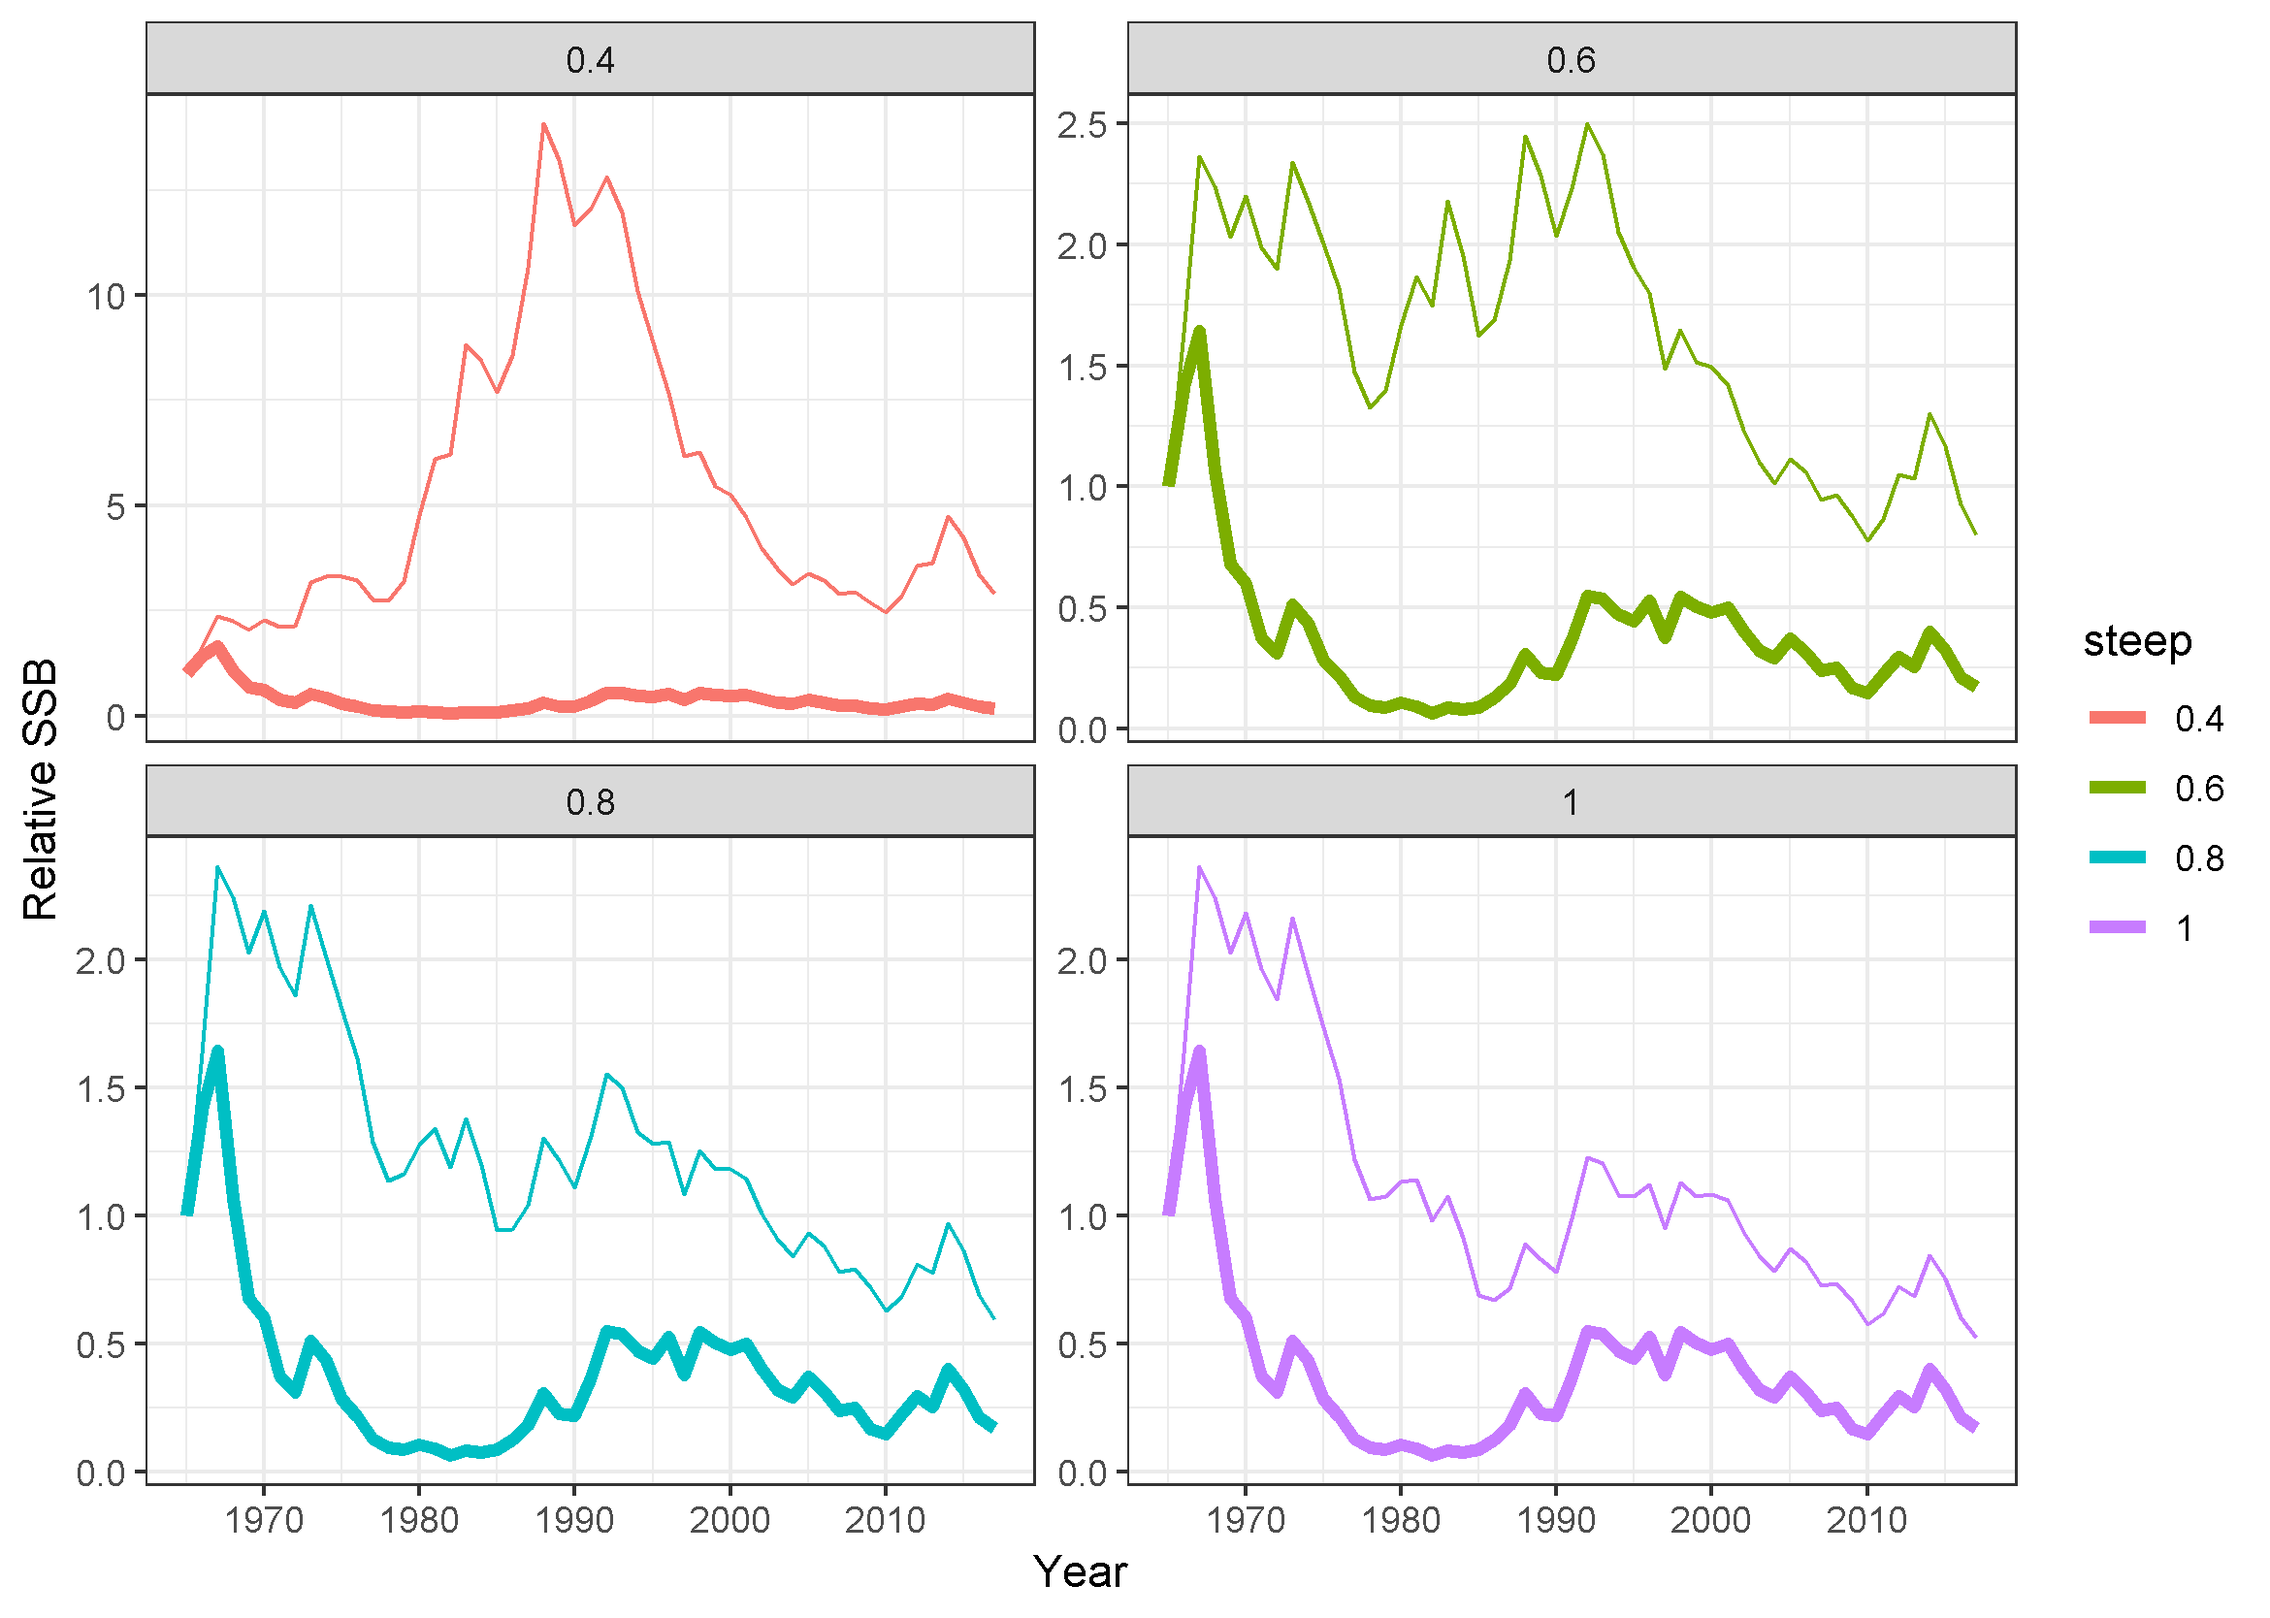
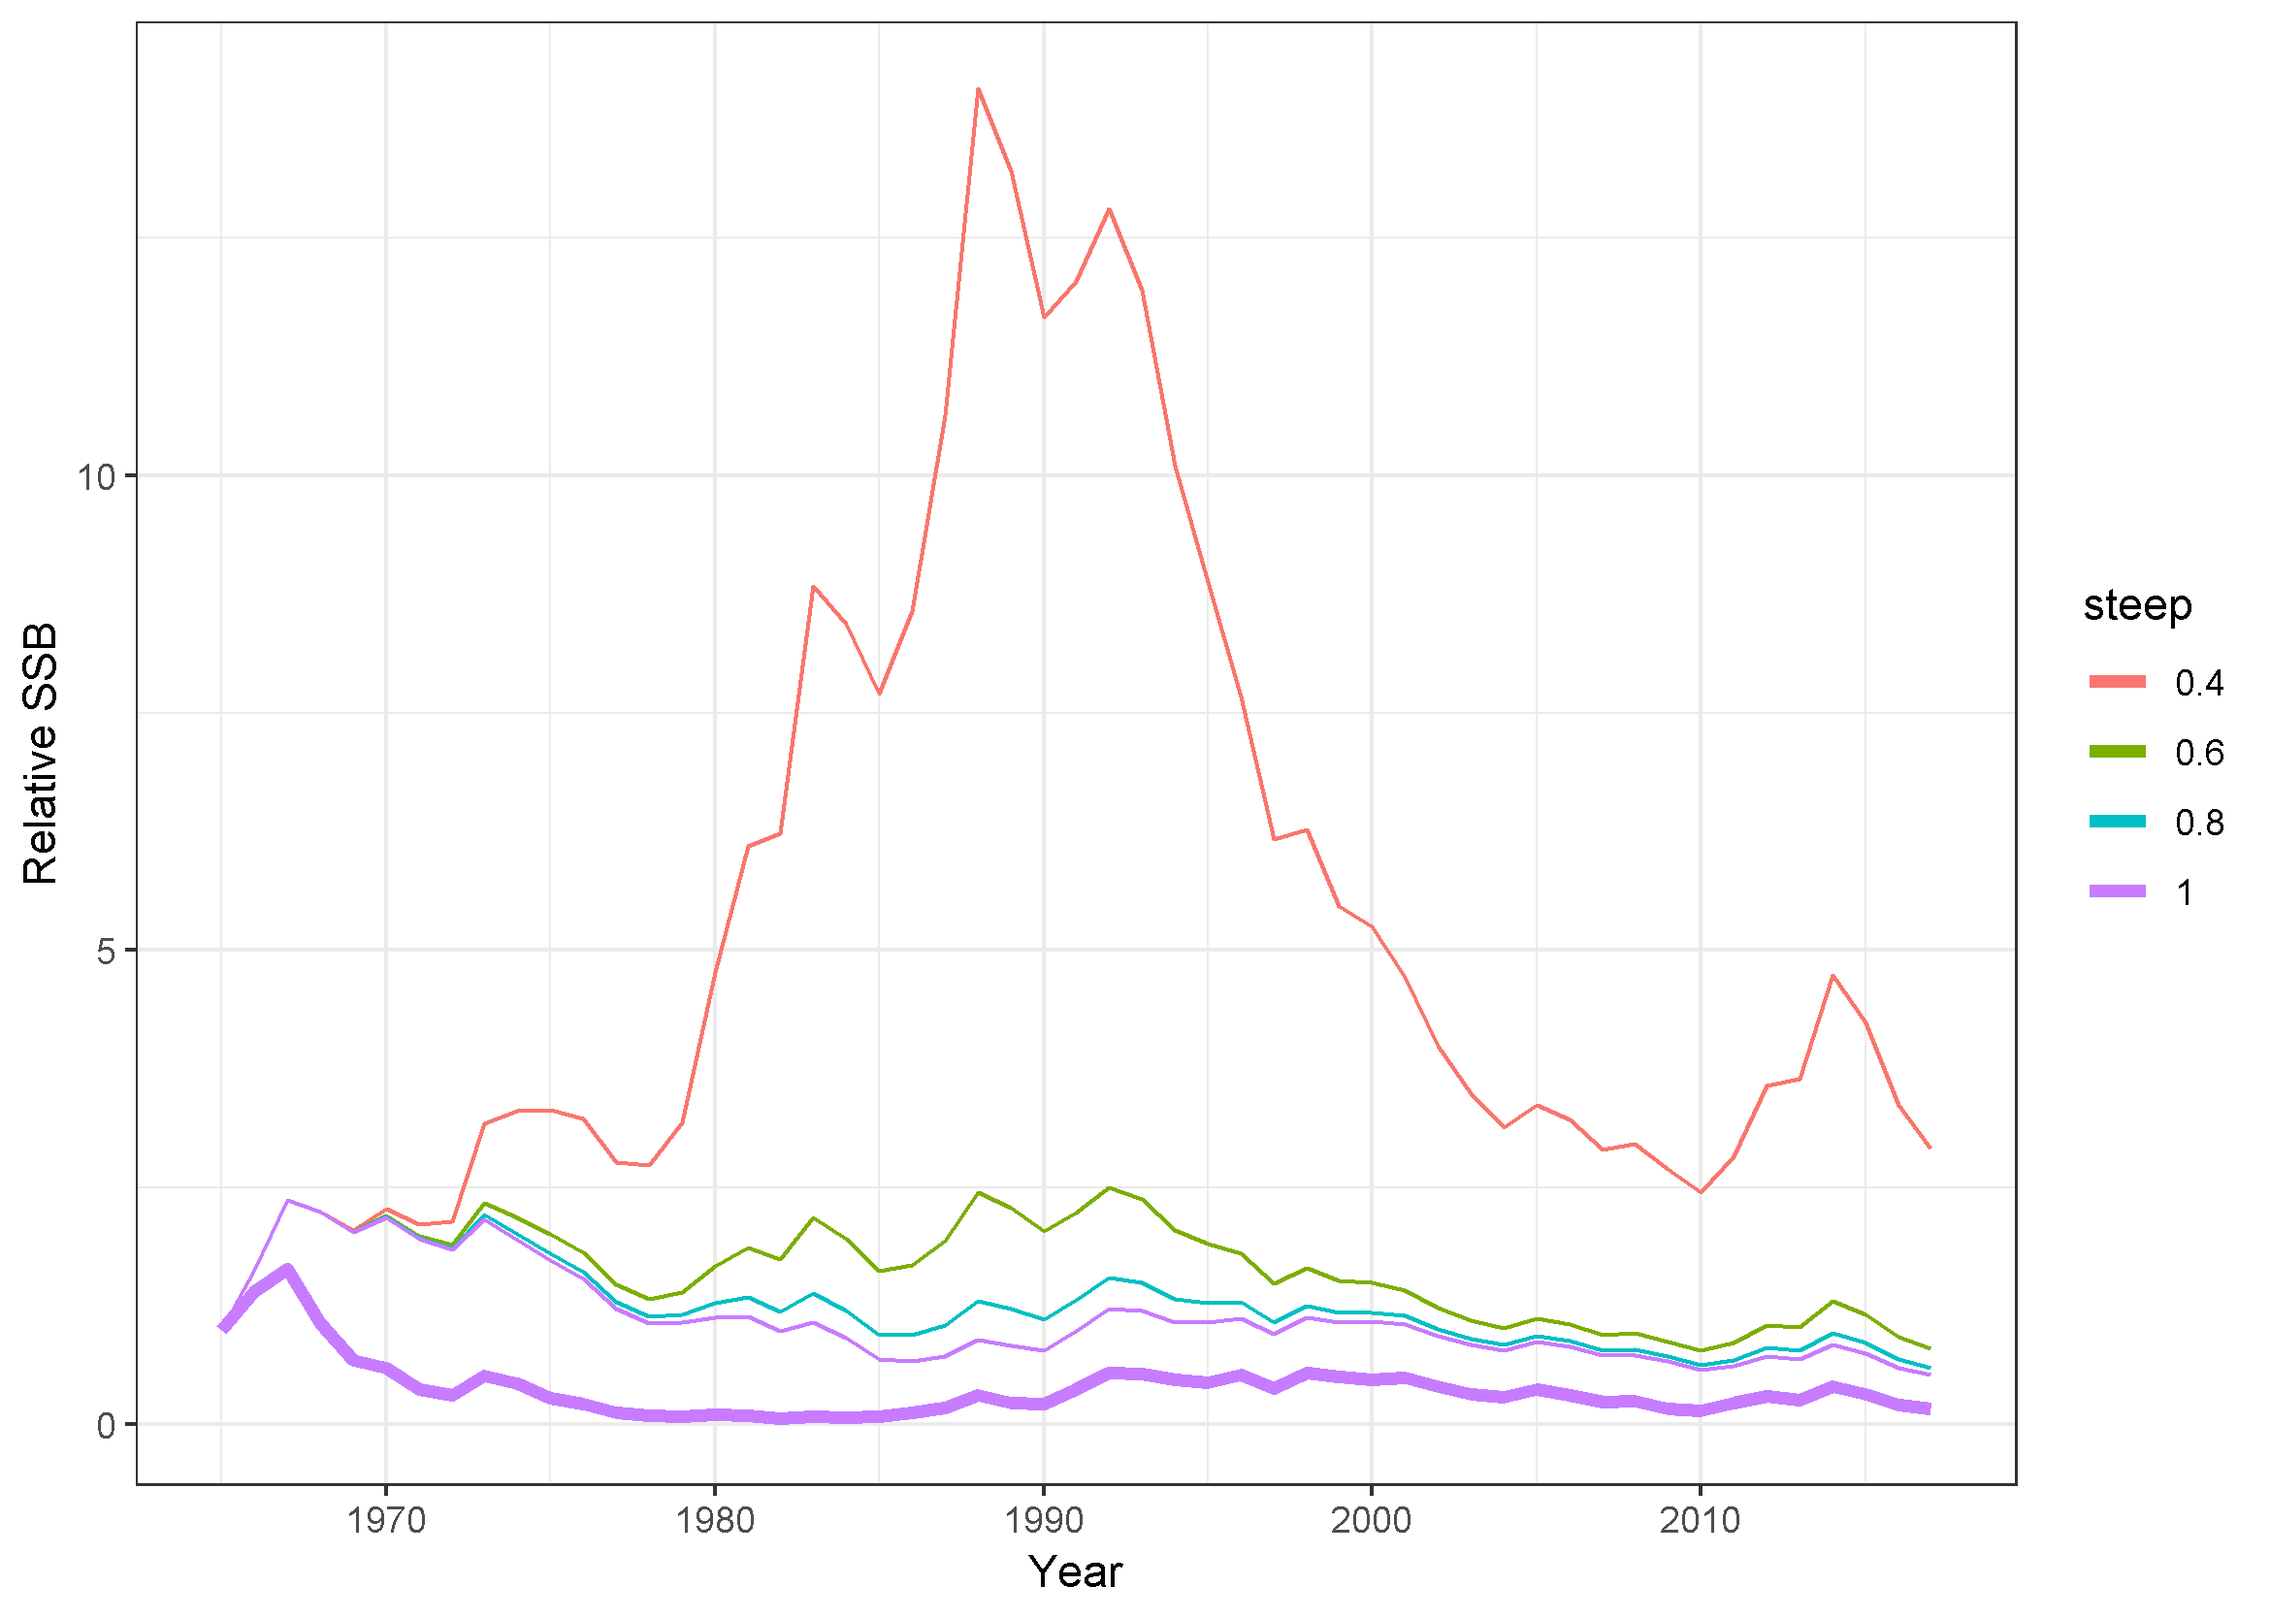
remove faceting in relative SSB plot

diff --git a/README.md b/README.md
@@ -30,7 +30,7 @@ The stock recruitment curves all pass through the data reasonably well.
 ![SR plot](srplot.png)
 
 Computing the dynamic B0 resulted in large differences among the four steepness values both in absolute ![SSB plot](ssbplot.png)
-and relative scales (thin line dynamic B0, thick line model estimate including fishing).
+and relative scales, where the time series are relative to the value in the first year (thin line dynamic B0, thick line model estimate including fishing).
 ![relative SSB plot](relssbplot.png)
 
 The current depeletion was estimated as the SSB in the final year from the original assessment divided by the dynamic B0 value in the final year, and varied widely:  
